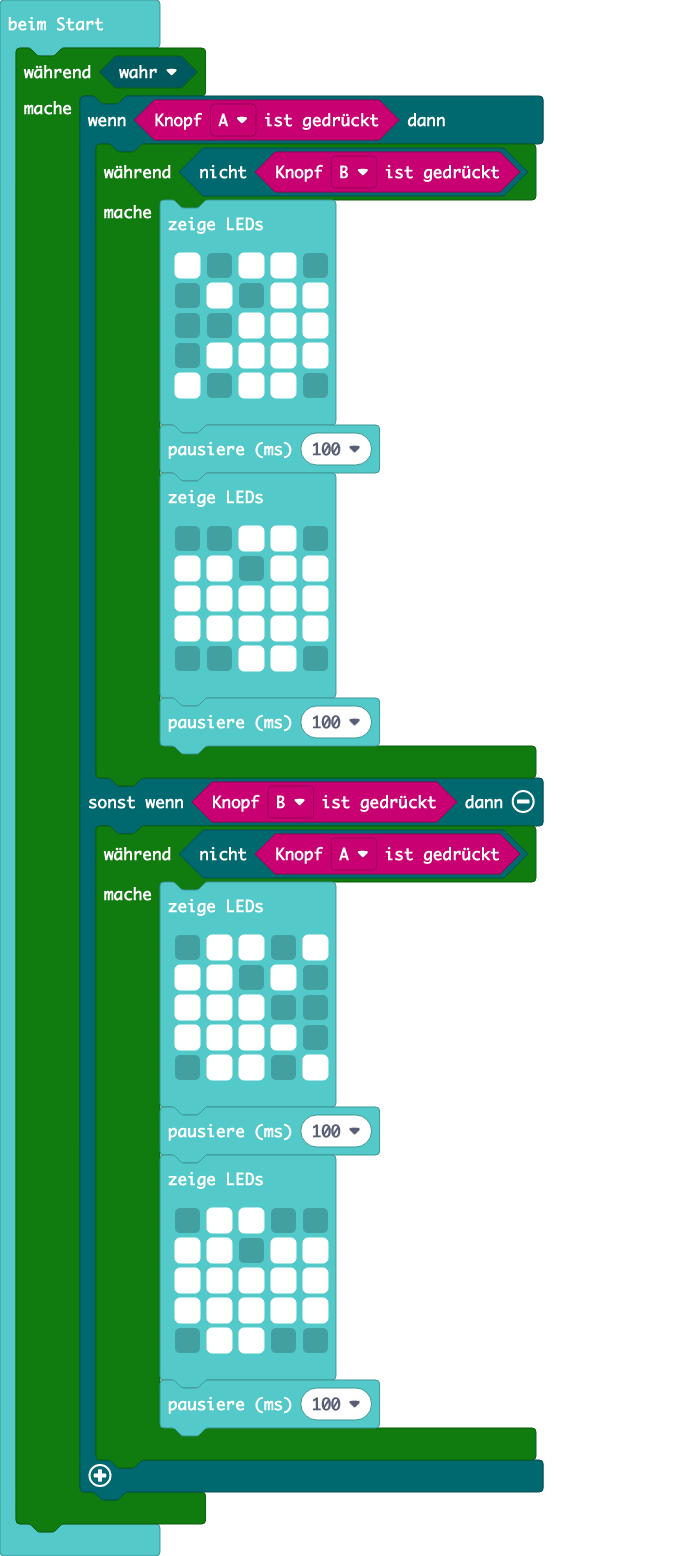
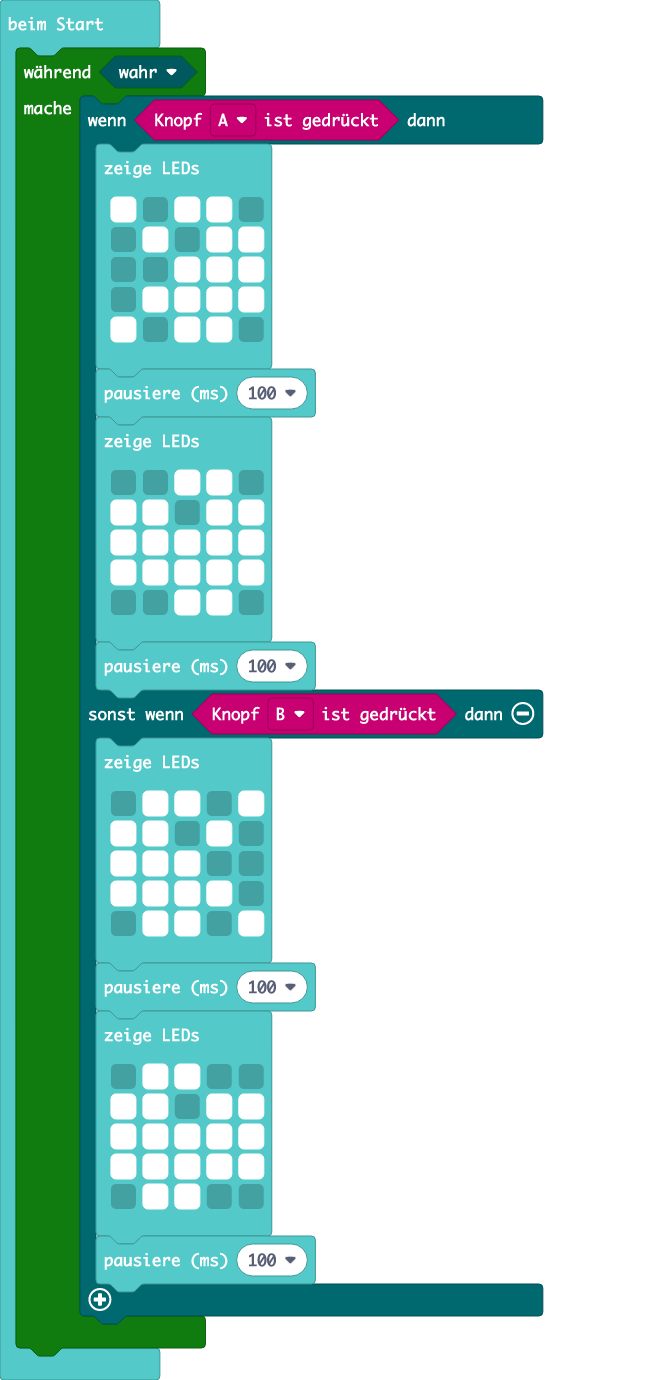
Aktualisiere main.blocks, main.ts

diff --git a/main.ts b/main.ts
@@ -1,41 +1,37 @@
 while (true) {
     if (input.buttonIsPressed(Button.A)) {
-        while (!(input.buttonIsPressed(Button.B))) {
-            basic.showLeds(`
-                # . # # .
-                . # . # #
-                . . # # #
-                . # # # #
-                # . # # .
-                `)
-            basic.pause(100)
-            basic.showLeds(`
-                . . # # .
-                # # . # #
-                # # # # #
-                # # # # #
-                . . # # .
-                `)
-            basic.pause(100)
-        }
+        basic.showLeds(`
+            # . # # .
+            . # . # #
+            . . # # #
+            . # # # #
+            # . # # .
+            `)
+        basic.pause(100)
+        basic.showLeds(`
+            . . # # .
+            # # . # #
+            # # # # #
+            # # # # #
+            . . # # .
+            `)
+        basic.pause(100)
     } else if (input.buttonIsPressed(Button.B)) {
-        while (!(input.buttonIsPressed(Button.A))) {
-            basic.showLeds(`
-                . # # . #
-                # # . # .
-                # # # . .
-                # # # # .
-                . # # . #
-                `)
-            basic.pause(100)
-            basic.showLeds(`
-                . # # . .
-                # # . # #
-                # # # # #
-                # # # # #
-                . # # . .
-                `)
-            basic.pause(100)
-        }
+        basic.showLeds(`
+            . # # . #
+            # # . # .
+            # # # . .
+            # # # # .
+            . # # . #
+            `)
+        basic.pause(100)
+        basic.showLeds(`
+            . # # . .
+            # # . # #
+            # # # # #
+            # # # # #
+            . # # . .
+            `)
+        basic.pause(100)
     }
 }
